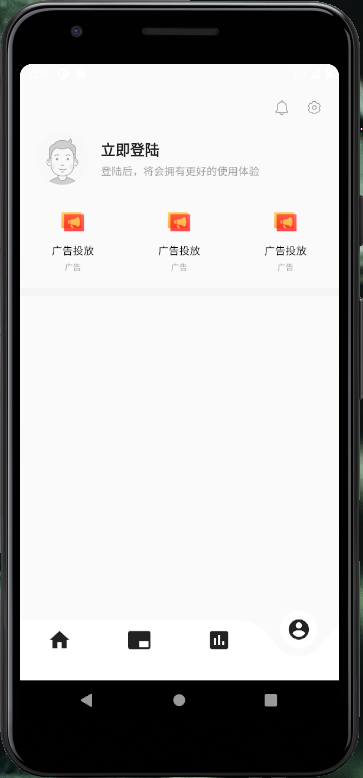
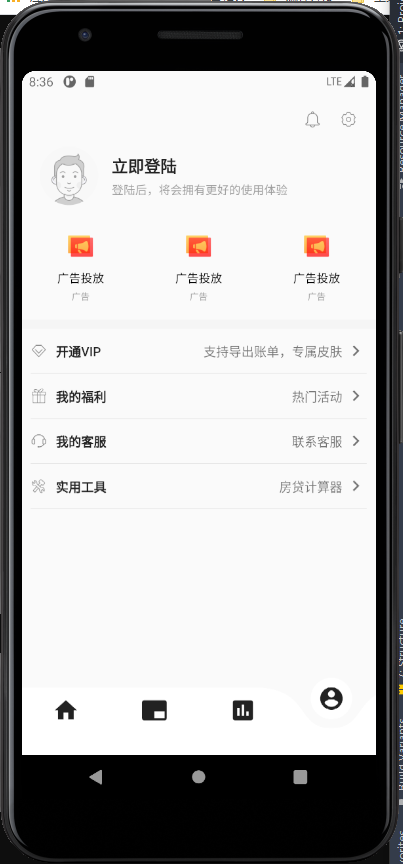
修改我的页面

diff --git a/lib/pages/mine/mine_page.dart b/lib/pages/mine/mine_page.dart
@@ -3,6 +3,7 @@ import 'package:flutter/material.dart';
 import 'package:flutter/services.dart';
 import 'package:flutter_pocket_book/utils/img_util.dart';
 import 'package:flutter_pocket_book/utils/toast_util.dart';
+import 'package:flutter_pocket_book/widgets/cell_widget.dart';
 
 import 'mine_ad_widget.dart';
 
@@ -14,103 +15,148 @@ class MinePage extends StatefulWidget {
 class _MinePageState extends State<MinePage> {
   @override
   Widget build(BuildContext context) {
-    // 修改状态栏颜色
-    SystemChrome.setSystemUIOverlayStyle(SystemUiOverlayStyle.dark);
-
-    return Scaffold(
-      appBar: AppBar(
-        title: Text('1111'),
-      ),
-      body: Column(
-        children: <Widget>[
-          // 顶部按钮
-          Container(
-            margin: EdgeInsets.only(top: MediaQuery.of(context).padding.top),
-            padding: EdgeInsets.only(right: 10.0, top: 10.0, bottom: 10.0),
-            child: Row(
-              mainAxisAlignment: MainAxisAlignment.end,
-              children: <Widget>[
-                InkWell(
-                  onTap: () {
-                    print('点击消息按钮');
-                    Navigator.pushNamed(context, '/message');
-                  },
-                  borderRadius: BorderRadius.circular(100.0),
-                  child: Padding(
-                    padding: EdgeInsets.all(10.0),
-                    child: Image.asset(
-                      Img.getAssetsImg('ic_mine_message.png'),
-                      height: 20.0,
+    // AnnotatedRegion 修改状态栏颜色
+    return AnnotatedRegion<SystemUiOverlayStyle>(
+      value: SystemUiOverlayStyle.dark,
+      child: Scaffold(
+        body: Column(
+          children: <Widget>[
+            // 顶部按钮
+            Container(
+              margin: EdgeInsets.only(top: MediaQuery.of(context).padding.top),
+              padding: EdgeInsets.only(right: 10.0, top: 10.0, bottom: 10.0),
+              child: Row(
+                mainAxisAlignment: MainAxisAlignment.end,
+                children: <Widget>[
+                  InkWell(
+                    onTap: () {
+                      print('点击消息按钮');
+                      Navigator.pushNamed(context, '/message');
+                    },
+                    borderRadius: BorderRadius.circular(100.0),
+                    child: Padding(
+                      padding: EdgeInsets.all(10.0),
+                      child: Image.asset(
+                        Img.getAssetsImg('ic_mine_message.png'),
+                        height: 20.0,
+                      ),
                     ),
                   ),
-                ),
-                InkWell(
-                  onTap: () {
-                    print('点击设置按钮');
+                  InkWell(
+                    onTap: () {
+                      print('点击设置按钮');
 //                     Toast.show('msg');
-                    Navigator.pushNamed(context, '/set');
-                  },
-                  borderRadius: BorderRadius.circular(100.0),
-                  child: Padding(
-                    padding: EdgeInsets.all(10.0),
-                    child: Image.asset(
-                      Img.getAssetsImg('ic_mine_setting.png'),
-                      height: 20.0,
+                      Navigator.pushNamed(context, '/set');
+                    },
+                    borderRadius: BorderRadius.circular(100.0),
+                    child: Padding(
+                      padding: EdgeInsets.all(10.0),
+                      child: Image.asset(
+                        Img.getAssetsImg('ic_mine_setting.png'),
+                        height: 20.0,
+                      ),
                     ),
                   ),
-                ),
-              ],
+                ],
+              ),
             ),
-          ),
-          // 用户信息
-          GestureDetector(
-            onTap: () {
-              Navigator.pushNamed(context, '/login');
-            },
-            child: Row(
-              children: <Widget>[
-                Padding(
-                  padding: EdgeInsets.only(left: 20.0),
-                  child: Image.asset(
-                    Img.getAssetsImg("ic_vip_default_avatar.png"),
-                    height: 65.0,
-                    width: 65.0,
+            // 用户信息
+            GestureDetector(
+              onTap: () {
+                Navigator.pushNamed(context, '/login');
+              },
+              child: Row(
+                children: <Widget>[
+                  Padding(
+                    padding: EdgeInsets.only(left: 20.0),
+                    child: Image.asset(
+                      Img.getAssetsImg("ic_vip_default_avatar.png"),
+                      height: 65.0,
+                      width: 65.0,
+                    ),
                   ),
-                ),
-                Container(
-                  margin: EdgeInsets.only(left: 15.0),
-                  height: 58.0,
-                  child: Column(
-                    crossAxisAlignment: CrossAxisAlignment.start,
-                    mainAxisAlignment: MainAxisAlignment.spaceEvenly,
-                    children: <Widget>[
-                      Text(
-                        "立即登陆",
-                        style: TextStyle(
-                          fontSize: 18.0,
-                          fontWeight: FontWeight.w700,
+                  Container(
+                    margin: EdgeInsets.only(left: 15.0),
+                    height: 58.0,
+                    child: Column(
+                      crossAxisAlignment: CrossAxisAlignment.start,
+                      mainAxisAlignment: MainAxisAlignment.spaceEvenly,
+                      children: <Widget>[
+                        Text(
+                          "立即登陆",
+                          style: TextStyle(
+                            fontSize: 18.0,
+                            fontWeight: FontWeight.w700,
+                          ),
                         ),
-                      ),
-                      Text(
-                        "登陆后，将会拥有更好的使用体验",
-                        style: TextStyle(
-                          fontSize: 13.0,
-                          color: Colors.grey,
+                        Text(
+                          "登陆后，将会拥有更好的使用体验",
+                          style: TextStyle(
+                            fontSize: 13.0,
+                            color: Colors.grey,
+                          ),
                         ),
-                      ),
-                    ],
+                      ],
+                    ),
                   ),
-                ),
-//
-              ],
+                ],
+              ),
             ),
-          ),
-          MineAd(),
-          Container(
-            height: 10.0,
-            color: Color.fromARGB(255, 245, 245, 245),
-          ),
-        ],
+            MineAd(),
+            Container(
+              height: 10.0,
+              color: Color.fromARGB(255, 245, 245, 245),
+            ),
+            CellWidget(
+              onTap: () {
+                Toast.show('开通VIP');
+              },
+              title: '开通VIP',
+              value: '支持导出账单，专属皮肤',
+              icon: Image.asset(
+                Img.getAssetsImg('icon_vip.png'),
+                fit: BoxFit.cover,
+                width: 18.0,
+              ),
+            ),
+            CellWidget(
+              onTap: () {
+                Toast.show('我的福利');
+              },
+              title: '我的福利',
+              value: '热门活动',
+              icon: Image.asset(
+                Img.getAssetsImg('icon_fuli.png'),
+                fit: BoxFit.cover,
+                width: 18.0,
+              ),
+            ),
+            CellWidget(
+              onTap: () {
+                Toast.show('我的客服');
+              },
+              title: '我的客服',
+              value: '联系客服',
+              icon: Image.asset(
+                Img.getAssetsImg('icon_kefu.png'),
+                fit: BoxFit.cover,
+                width: 18.0,
+              ),
+            ),
+            CellWidget(
+              onTap: () {
+                Toast.show('实用工具');
+              },
+              title: '实用工具',
+              value: '房贷计算器',
+              icon: Image.asset(
+                Img.getAssetsImg('icon_gongju.png'),
+                fit: BoxFit.cover,
+                width: 18.0,
+              ),
+            ),
+          ],
+        ),
       ),
     );
   }

diff --git a/lib/widgets/cell_widget.dart b/lib/widgets/cell_widget.dart
@@ -1,0 +1,94 @@
+import 'package:flutter/cupertino.dart';
+import 'package:flutter/material.dart';
+
+/// cell
+class CellWidget extends StatelessWidget {
+  final Function onTap;
+
+  ///左边文字
+  final String title;
+
+  ///右边文字
+  final String value;
+
+  ///是否显示右边箭头
+  final bool showLink;
+
+  ///左边icon
+  final Widget icon;
+
+  ///iconName
+  final String iconName;
+
+  const CellWidget(
+      {Key key,
+      this.onTap,
+      this.title,
+      this.value,
+      this.showLink = true,
+      this.icon,
+      this.iconName})
+      : super(key: key);
+
+  @override
+  Widget build(BuildContext context) {
+    return Padding(
+      padding: EdgeInsets.symmetric(horizontal: 10.0),
+      child: FlatButton(
+        padding: EdgeInsets.all(0.0),
+        onPressed: () {
+          if (onTap != null) {
+            onTap();
+          }
+        },
+        child: Container(
+          height: 50.0,
+          decoration: BoxDecoration(
+            border: Border(
+              bottom: BorderSide(
+                width: 0.5,
+                color: Colors.black12,
+              ),
+            ),
+          ),
+          child: Row(
+            mainAxisAlignment: MainAxisAlignment.spaceBetween,
+            children: <Widget>[
+              Row(
+                children: <Widget>[
+                  if (icon != null)
+                    Padding(
+                      padding: EdgeInsets.only(right: 10.0),
+                      child: icon,
+                    ),
+                  Text(
+                    title,
+                    style:
+                        TextStyle(fontWeight: FontWeight.w600, fontSize: 14.0),
+                  ),
+                ],
+              ),
+              Row(
+                crossAxisAlignment: CrossAxisAlignment.center,
+                children: <Widget>[
+                  Text(
+                    value,
+                    style: TextStyle(color: Colors.black54, fontSize: 14.0),
+                  ),
+                  Padding(
+                    padding: EdgeInsets.only(left: 3.0),
+                  ),
+                  if (showLink)
+                    Icon(
+                      Icons.keyboard_arrow_right,
+                      color: Colors.black54,
+                    ),
+                ],
+              )
+            ],
+          ),
+        ),
+      ),
+    );
+  }
+}

diff --git a/lib/main.dart b/lib/main.dart
@@ -5,6 +5,10 @@ import 'package:flutter/services.dart';
 import 'package:flutter_pocket_book/router/routes.dart';
 
 void main() {
+
+  // 修改状态栏颜色
+  SystemChrome.setSystemUIOverlayStyle(SystemUiOverlayStyle.dark);
+
   runApp(MyApp());
   // 透明状态栏
   if (Platform.isAndroid) {

diff --git a/README.md b/README.md
@@ -11,4 +11,4 @@
 
 ## 已实现的效果
 
-<img src="./ui/ui_1.png" style="zoom:10%;" />
+<img src="./ui/ui_1.png" width="220px" />
